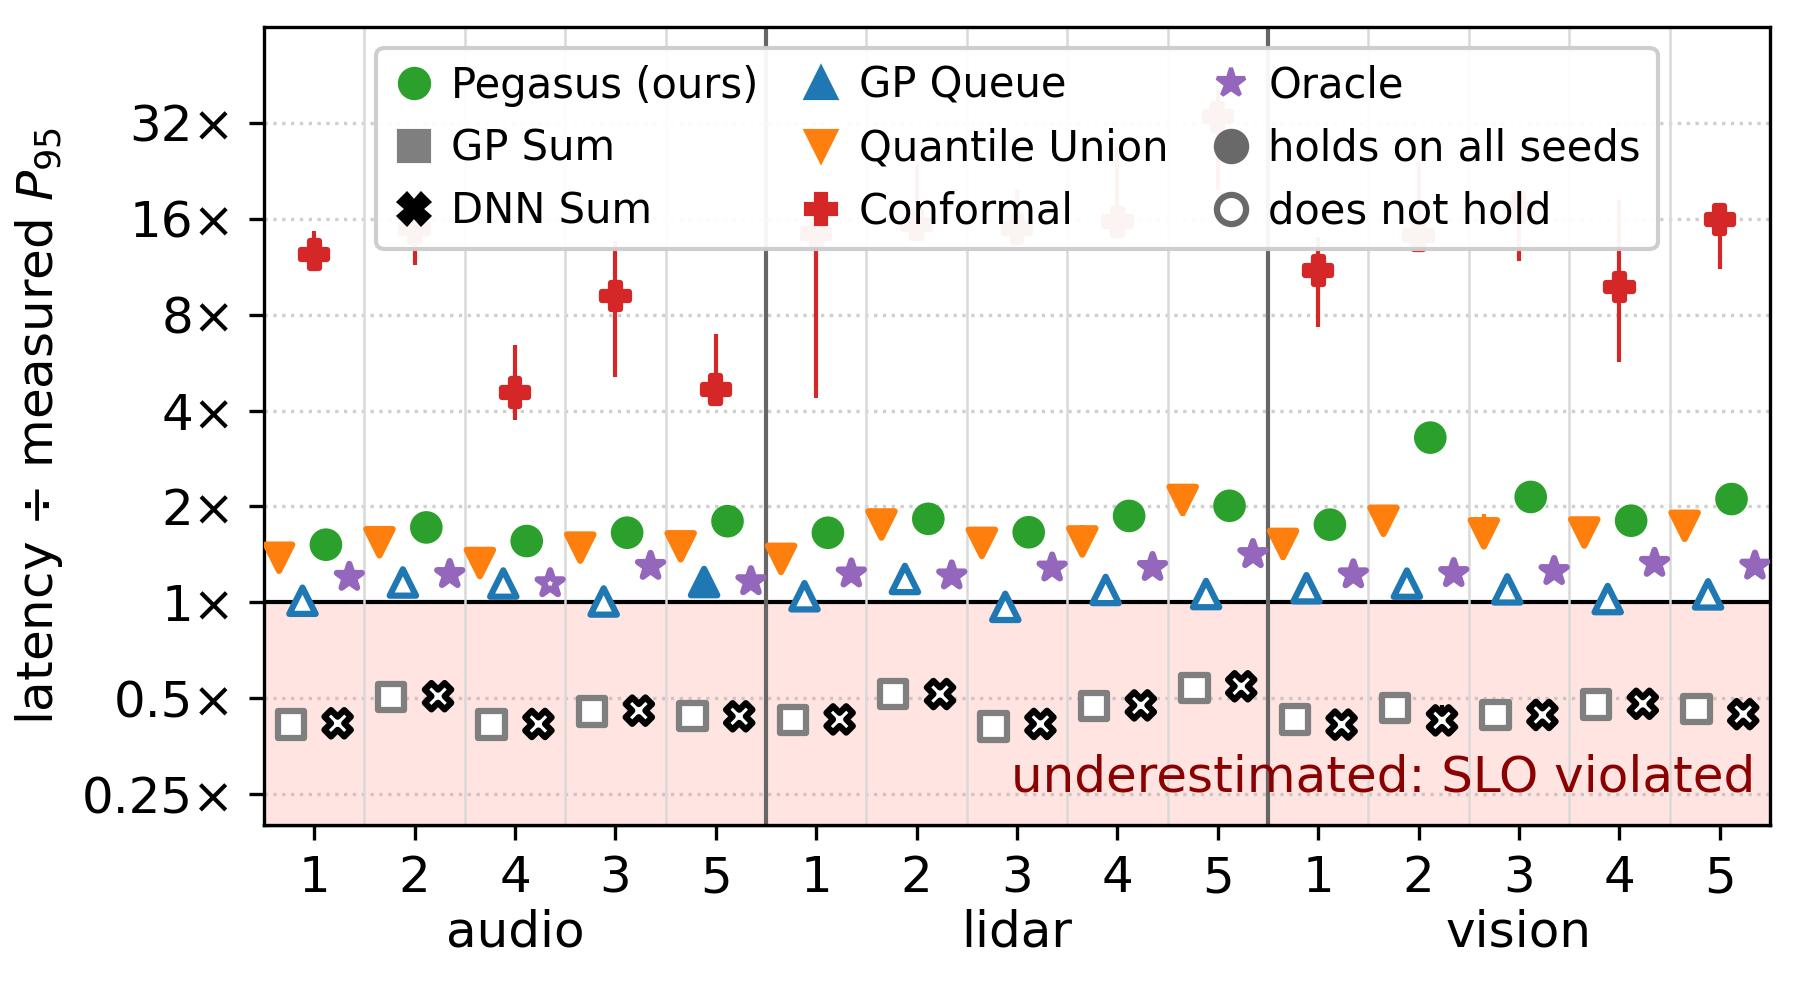
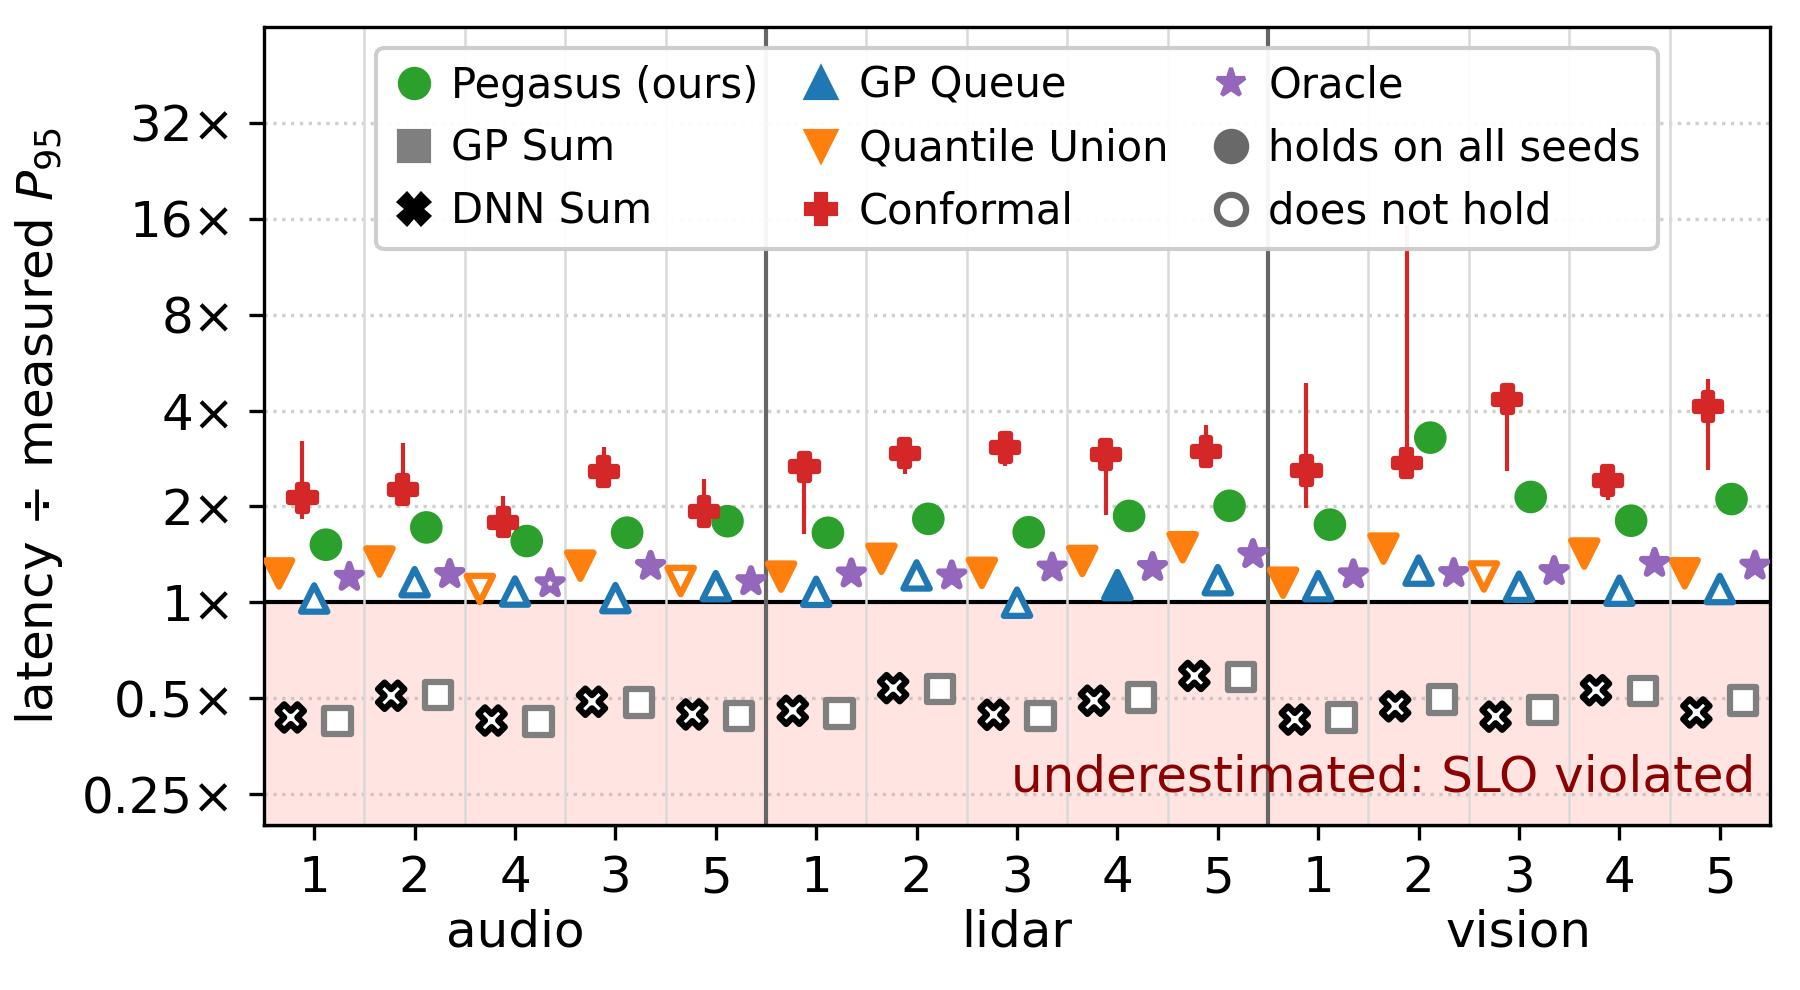
change all baselines to have the same information

diff --git a/notebooks/tsc/load_aware_b4.py b/notebooks/tsc/load_aware_b4.py
@@ -42,9 +42,11 @@ from pathlib import Path
 import joblib
 import numpy as np
 import pandas as pd
+from scipy.stats import norm
 
 import pegasus.real_data as real_data
-from pegasus.data import load_aware, model_inputs
+from pegasus.baselines import conformal_service_bounds, joint_gaussian_quantile, queueing_formula_latency, summed_service_quantiles, union_bound_oracle
+from pegasus.data import load_aware, model_inputs, path_workers
 from pegasus.evaluation import METHOD_COLORS, fit_services, pegasus_bound
 from pegasus.figures import METHOD_STYLES
 from pegasus.real_data import CAMPAIGN, b4_chain_data, run_table, worker_benchmark_pool
@@ -127,6 +129,33 @@ def variant_latency(data, fits: dict, s: int, model_seed: int, alpha: float, con
     y_train, models = fits[s]
     assert all(np.array_equal(data.y_train[node], y_train[node]) for node in data.path), "the training data differs between the settings"
     return pegasus_bound(data, beliefs_at(models, aware, confidence), alpha)
+
+
+def same_information_latencies(data, s: int, model_seed: int, alpha: float, confidence: float, n_calibration: int) -> dict:
+    """End-to-end latency (s) per held-out run of every method of B.1 on the same information: the data of `data` must come
+    from real_chain_data with training_campaign=EXTENDED and n_train=N_TRAIN (inside extended_training), so that every method
+    trains on the same runs, the worker benchmarks, and every model receives the same inputs: the knobs, the number of workers
+    and log10 of the arrival rate (load_aware). Name -> latency; Pegasus under VARIANT, as variant_latency stores it.
+    - Pegasus, GP Sum, DNN Sum, GP Queue: the GPs (and the DNN) of fit_services on the inputs of load_aware(data), which has the
+      workers column kept; the bounds read the workers of every held-out run from `data` (path_workers), as everywhere.
+    - Quantile Union, Conformal: the GPs of the latency quantile on data.x_train_load and data.x_test_load (workers kept, rate last);
+      model_inputs is not applied, which would drop the workers.
+    - Oracle: the union bound over the measured node latencies (no model).
+    model_seed: seed of the DNN and of the calibration split of Conformal (seed + s, as in B.1)."""
+    K, workload = len(data.path), data.workload
+    view = load_aware(data)
+    models = fit_services(view, view.x_train, data.y_train, model_seed=model_seed, confidence=confidence)
+    x_test = model_inputs(view.x_test, view.workers_column)   # the workers column is kept in this view: nothing is dropped
+    predicted = {kind: [models[kind][node].predict(configurations_of(x_test, node), return_std=True) for node in data.path] for kind in ("gp", "dnn")}
+    workers = path_workers(data) or [1] * K
+    return {VARIANT: pegasus_bound(data, models, alpha),
+            "GP Sum": joint_gaussian_quantile(*zip(*predicted["gp"]), norm.ppf(1 - alpha)),
+            "DNN Sum": joint_gaussian_quantile(*zip(*predicted["dnn"]), norm.ppf(1 - alpha)),
+            "GP Queue": sum(queueing_formula_latency(mean, std ** 2, epsilon=alpha, workers=w, **workload) for (mean, std), w in zip(predicted["gp"], workers)),
+            "Quantile Union": summed_service_quantiles(data.x_train_load, data.monitored_latencies, data.path, alpha / K, data.x_test_load, log_target=True),
+            "Conformal": conformal_service_bounds(data.x_train_load, data.monitored_latencies, data.path, alpha, data.x_test_load,
+                                                  miscoverage=1 - confidence, n_calibration=n_calibration, seed=model_seed, log_target=True),
+            "Oracle": union_bound_oracle(data.node_latencies, alpha)}
 
 
 def code_fingerprint() -> str:
